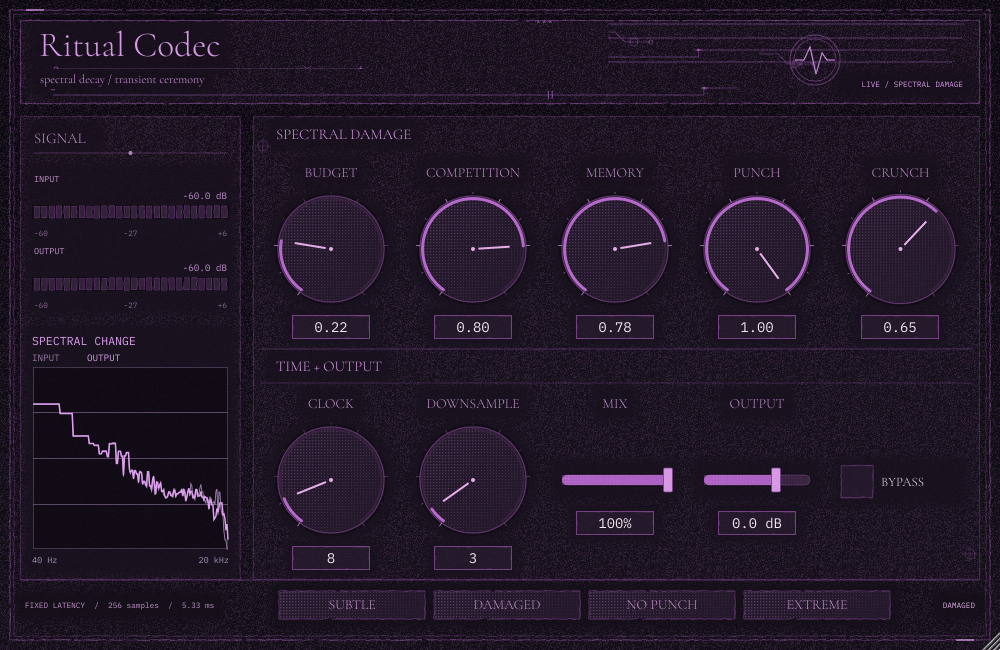
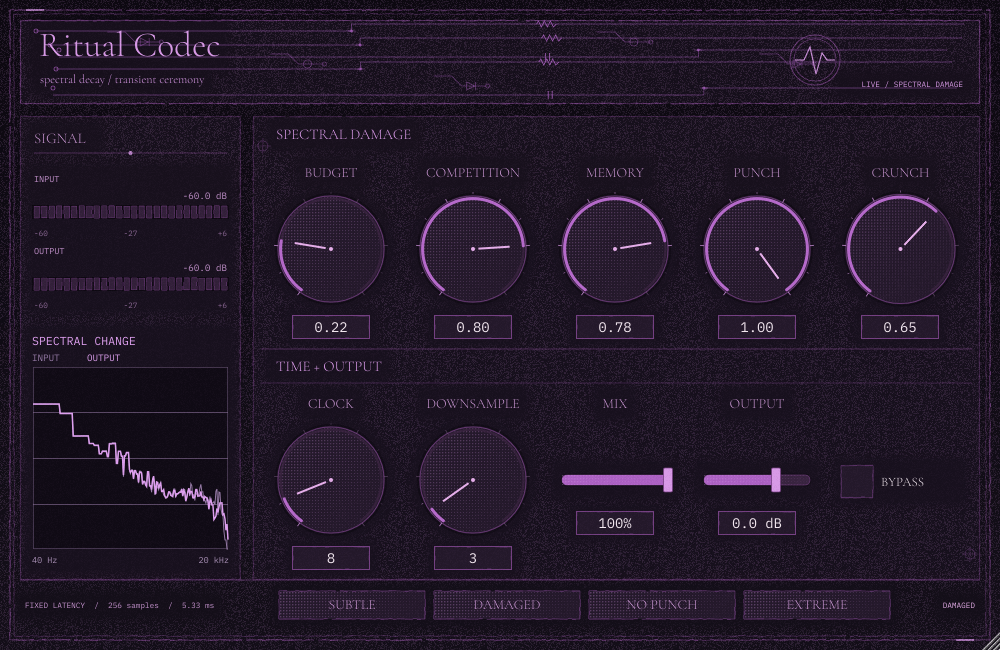
Draw header circuits continuously behind title labels

diff --git a/plugin/PluginEditor.cpp b/plugin/PluginEditor.cpp
@@ -929,11 +929,10 @@ void RitualAudioProcessorEditor::paint (juce::Graphics& g)
     g.fillRect (header);
     g.setColour (lineColour.withAlpha (0.84f));
     drawInkBorder (g, header.reduced (0.5f), 1.0f);
-    // Full-width routing, with staggered branches and distinct component symbols.
+    // Continuous full-width routing behind the transparent header labels.
+    // Clipping out label bounds creates conspicuous rectangular gaps in the traces.
     g.saveState();
-    g.excludeClipRegion (titleLabel.getBounds().expanded (4, 0));
-    g.excludeClipRegion (subtitleLabel.getBounds().expanded (4, 0));
-    g.excludeClipRegion (statusLabel.getBounds().expanded (4, 0));
+    g.reduceClipRegion (header.toNearestInt());
     const auto circuitArea = header.reduced (4.0f, 2.0f);
     for (int i = 0; i < 5; ++i)
     {
